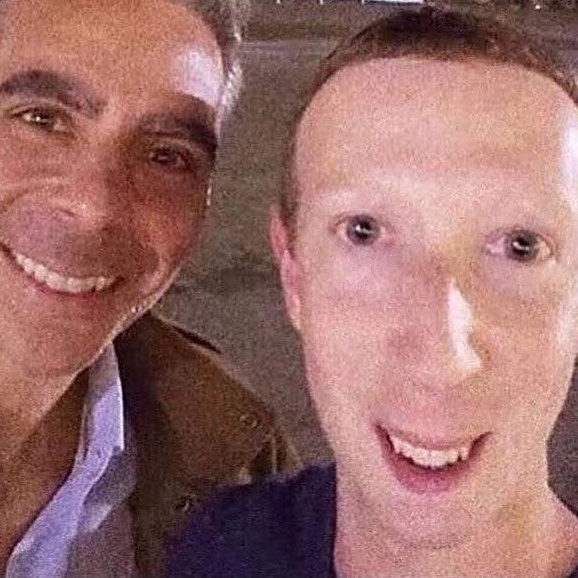
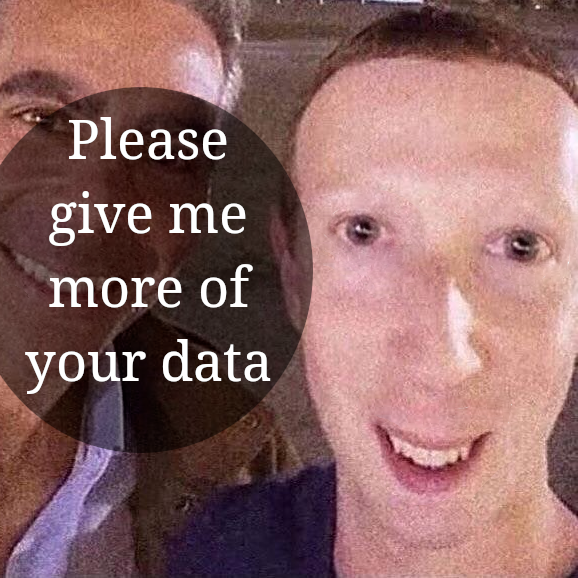
Updated pics to have in-photo caption Included a caption within the photos to encourage followers to stop scrolling

Changed region(s): [[0.0, 0.1246, 0.5606, 0.8097]]

diff --git a/main.py b/main.py
@@ -17,7 +17,7 @@ def Login():
     cl.login(USERNAME, PASSWORD)
 
 # Upload photo
-photos = ['assets/post_pics/hugging.png', 'assets/post_pics/zuck_alien.png', 'assets/post_pics/zuck_portrait.png', 'assets/post_pics/zuck_portrait2.png']
+photos = ['assets/post_pics/hugging.png', 'assets/post_pics/zuck_alien.png', 'assets/post_pics/zuck_portrait_dark.jpg', 'assets/post_pics/zuck_portrait_light.png']
 random_photo_path = random.choice(photos) # Photo to be uploaded
 caption = "Hello again fellas, it's time to get off Instagram. PROTIP: Like this post so the algorithm gives you more of these posts in the future. HASHTAGS: #getoffinstagram #addiction #fyp #foryou #explore #reels #andrewtate #samsulek #joebiden #biden #donaldtrump #Trump #monkey #monkeybrain #dopamine #scrolling #stopscrolling #coolvideo #funny #sad #angry #happy #positive #excited #cars #videogame #fortnite #rocketleague #leagueoflegends #lol #gta5 #gta6 #civ6 #apexlegends #minecraft #eveonline"
 def Upload_Photo():
